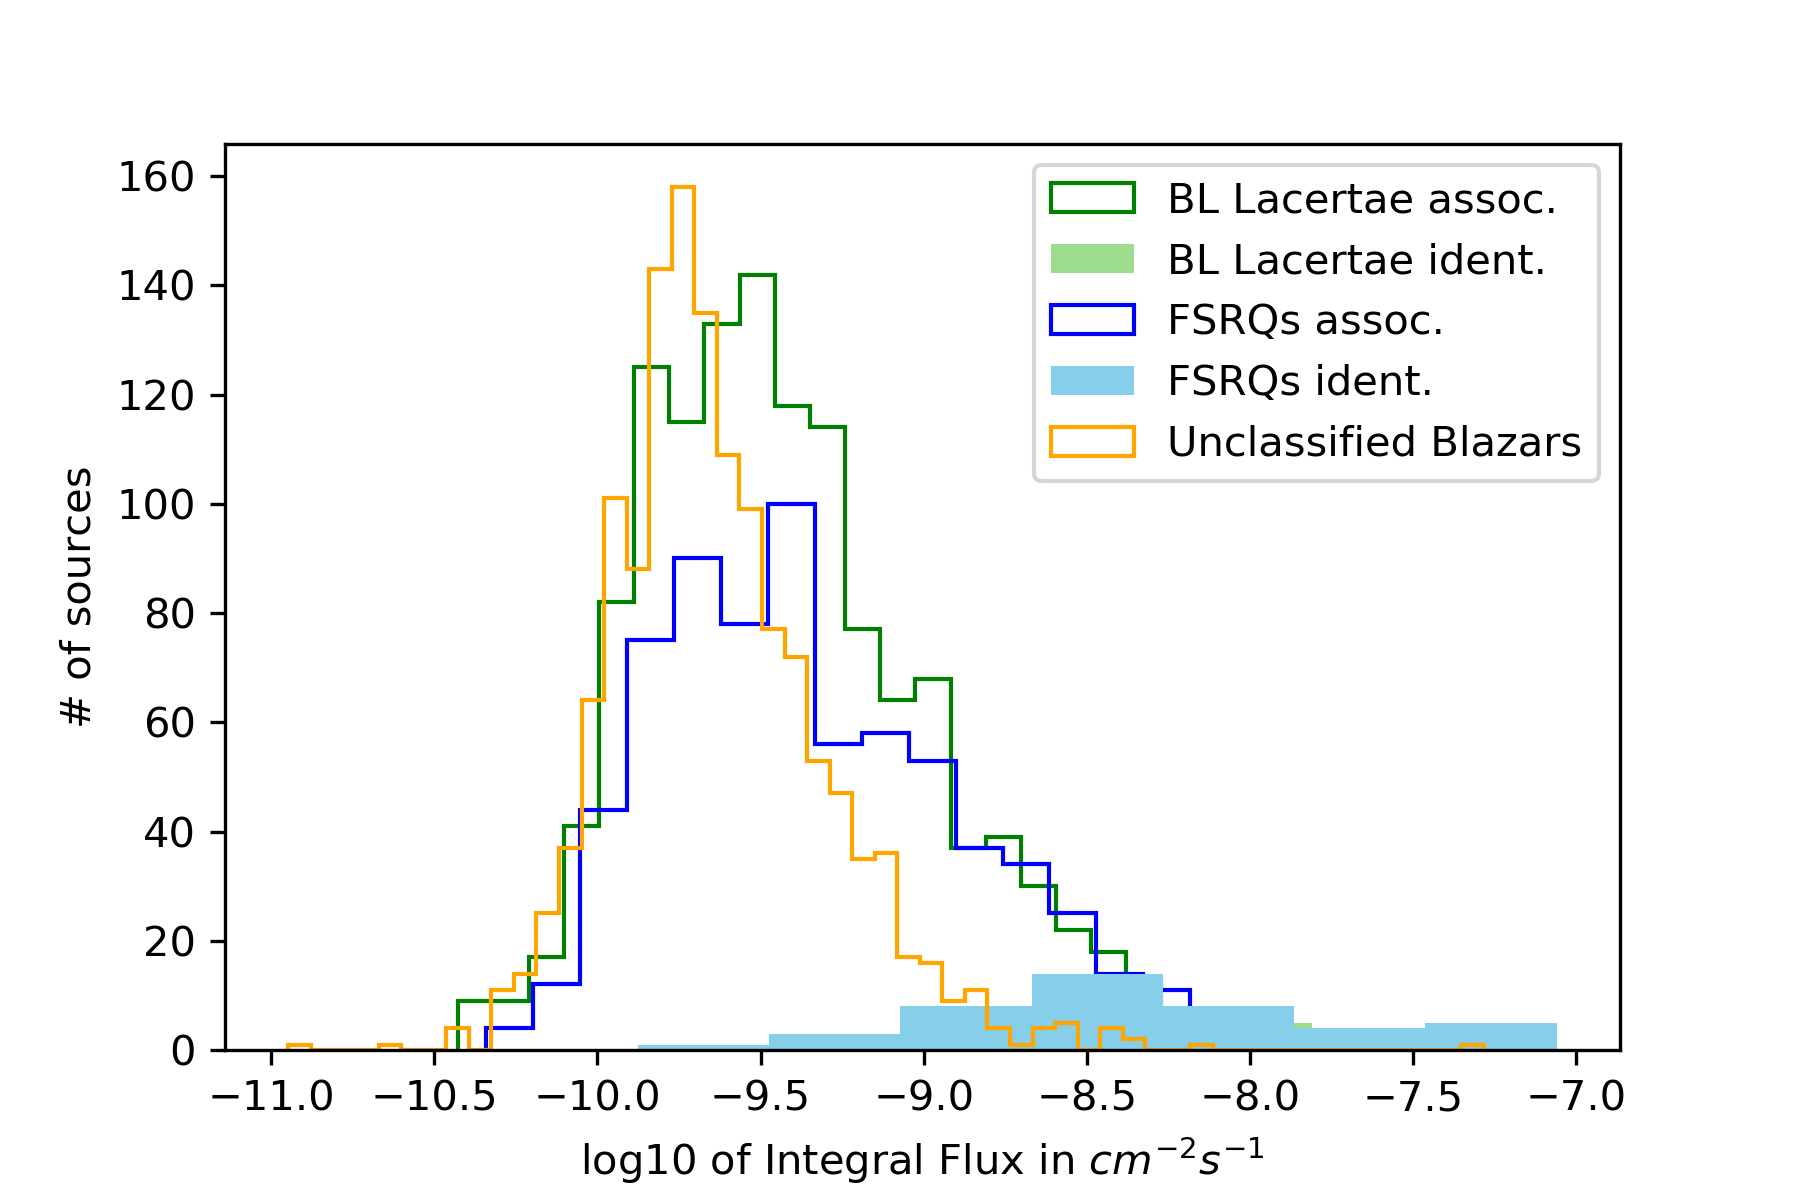
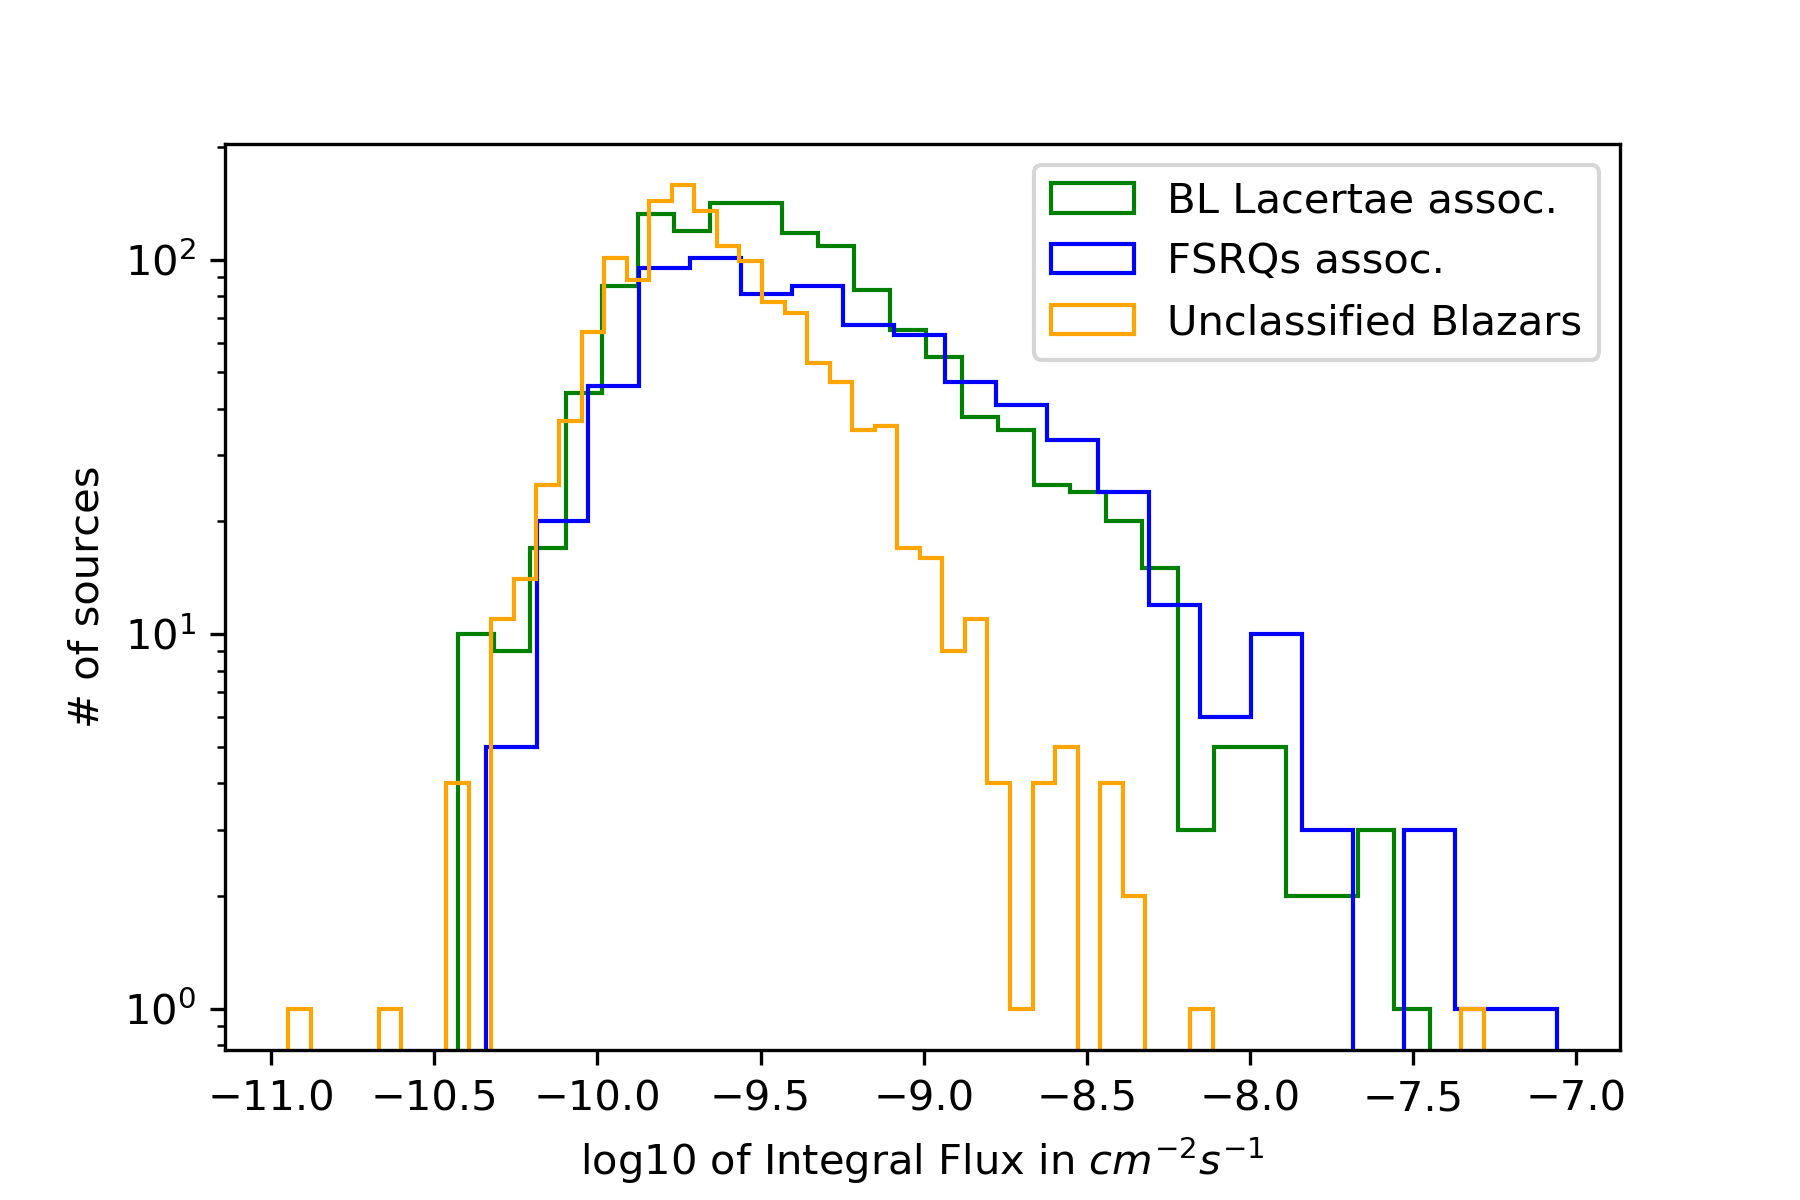
Clean up, start Source Count Distr.

diff --git a/RF_BCU_classif.py b/RF_BCU_classif.py
@@ -21,10 +21,10 @@ from sklearn.ensemble import RandomForestClassifier
 from sklearn.metrics import mean_squared_error
 import functions
 
-
-start = timeit.default_timer()                                  #start program timer
-
-mycatalog = catalog('gll_psc_v24.fit', 1)                       #get Silvia's catalog class
+# start program timer
+start = timeit.default_timer()
+# get Silvia's catalog class
+mycatalog = catalog('gll_psc_v24.fit', 1)
 mycatalog()
 
 f_lat_data = fits.open('gll_psc_v24.fit')
@@ -33,19 +33,19 @@ sources_cols = f_lat_data[1].columns
 
 merged = functions.merge_catalogs('gll_psc_v26.fit', 'table_4LAC.fits')
 merged = merged[merged.GLON.notnull()]
-
-label=np.empty(mycatalog.Ns)                                    #create empty label array
+# create empty label array
+label = np.empty(mycatalog.Ns)
 class1 = mycatalog.feature('CLASS1').astype(str)
-
-for i in range(label.size):                                     #label BLL as 0, FSRQ as 1
+# label BLL as 0, FSRQ as 1
+for i in range(label.size):
     if class1[i].strip() == 'bll':
         label[i]=0
     elif class1[i].strip() == 'BLL':
-        label[i]=10
+        label[i]=0
     elif class1[i].strip() == 'fsrq':
         label[i]=1
     elif class1[i].strip() == 'FSRQ':
-        label[i] = 11
+        label[i] = 1
     # label BCUs as 2
     elif class1[i].strip() == 'BCU':
         label[i] = 2
@@ -53,16 +53,16 @@ for i in range(label.size):                                     #label BLL as 0,
         label[i] = 2
     else:
         label[i]=np.nan
-        
-hist_data = {'BZ_Class': label,                                 #DataFrame for histograms
+# DataFrame for histograms
+hist_data = {'BZ_Class': label,
              'PL_Index': mycatalog.feature('PL_Index'),
              'Variability_Index': mycatalog.feature('Variability_Index'),
              'Flux1000': mycatalog.feature('Flux1000')}
                               
 hist_pd = pd.DataFrame(hist_data, columns = ['BZ_Class', 'PL_Index',
                                              'Variability_Index', 'Flux1000'])
-
-hist_pd = hist_pd.astype(np.float32)                            #convert to avoid errors
+# convert to avoid errors
+hist_pd = hist_pd.astype(np.float32)
 
 merged['BZ_Class'] = label.tolist()
 # merged['nu_syn'] = merged['nu_syn'].fillna(0)
@@ -72,11 +72,11 @@ merged['BZ_Class'] = label.tolist()
 
 hist_pd = merged
 
-bll = hist_pd[hist_pd["BZ_Class"]==0]
+bll = hist_pd[hist_pd["BZ_Class"] == 0]
 bll_upper = hist_pd[hist_pd["BZ_Class"] == 10]
-fsrq = hist_pd[hist_pd["BZ_Class"]==1]
+fsrq = hist_pd[hist_pd["BZ_Class"] == 1]
 fsrq_upper = hist_pd[hist_pd["BZ_Class"] == 11]
-bcu = hist_pd[hist_pd["BZ_Class"]==2]
+bcu = hist_pd[hist_pd["BZ_Class"] == 2]
 
 plt.hist(bll["PL_Index"], bins='auto', label='BL Lacertae assoc.',
          color='green', fill=False, histtype='step')
@@ -112,24 +112,48 @@ plt.legend()
 plt.savefig('Var_Index_hist.png', dpi=300)
 plt.show()
 
-
-plt.hist(np.log10(bll["Flux1000"]), bins='auto',              #Integral Flux histogram
+# Integral Flux histogram
+plt.hist(np.log10(bll["Flux1000"]), bins='auto',
          label='BL Lacertae assoc.', color='green',
          fill=False, histtype='step')
-plt.hist(np.log10(bll_upper["Flux1000"]), bins='auto',              #Integral Flux histogram
-         label='BL Lacertae ident.', color='#9DDB8D')
+# plt.hist(np.log10(bll_upper["Flux1000"]), bins='auto',
+#          label='BL Lacertae ident.', color='#9DDB8D')
 plt.hist(np.log10(fsrq["Flux1000"]), bins='auto',
          label='FSRQs assoc.', color='blue',
          fill=False, histtype='step')
-plt.hist(np.log10(fsrq_upper["Flux1000"]), bins='auto',
-         label='FSRQs ident.', color='skyblue')
+# plt.hist(np.log10(fsrq_upper["Flux1000"]), bins='auto',
+#          label='FSRQs ident.', color='skyblue')
 plt.hist(np.log10(bcu["Flux1000"]), bins='auto',
          label='Unclassified Blazars', color='orange',
          fill=False, histtype='step')
+plt.yscale('log')
 plt.xlabel('log10 of Integral Flux in $cm^{-2}s^{-1}$')
 plt.ylabel('# of sources')
 plt.legend()
 plt.savefig('Flux_1000_hist.png', dpi=300)
+plt.show()
+
+# Plot Source Count Distribution
+
+counts, bins = np.histogram(np.log10(bll["Flux1000"]), bins=15)
+# bin width
+h = bins[1] - bins[0]
+# complete solid angle in deg^2
+sol_angle_full = 41252.96
+bin_middle = np.zeros(len(counts)-1)
+bin_middle_long = np.zeros(len(counts))
+dN_dS_S2 = np.empty(len(counts)-1)
+for i in range(len(counts)-1):
+    bin_middle[i] = (bins[i]+bins[i+1])/2
+    dN_dS_S2[i] = (counts[i+1]-counts[i])/h*10**(bin_middle[i])/sol_angle_full
+    bin_middle_long[i] = bin_middle[i]
+
+bin_middle_long[len(counts)-1] = (bins[len(counts)-1]+bins[len(counts)])/2
+# TODO: understand source count distr. better
+dN_dS_dO_S2 = np.multiply(counts, 10**bin_middle_long)/sol_angle_full
+plt.plot(bin_middle_long, dN_dS_dO_S2, '.')
+plt.show()
+plt.plot(bin_middle, dN_dS_S2, '.')
 plt.show()
 
 '''

diff --git a/RF_feature_classif.py b/RF_feature_classif.py
@@ -171,11 +171,12 @@ sources_pd['nuFnu_syn'] = sources_pd['nuFnu_syn'].replace(0, np.nan)
 sources_pd['nuFnu_syn'] = sources_pd['nuFnu_syn'].fillna(median_nuFnu_syn)
 '''
 
-# drop features with missing entries
+# drop features with more than 10% missing entries
 for feature in sources_pd.columns:
     if sources_pd[feature].isna().sum() > 0.1 * len(sources_pd[feature]):
         sources_pd.drop(feature, axis=1, inplace=True)
 
+# drop irrelevatn features
 drop_cols = [col for col in sources_pd if col.startswith('ASSOC')]
 drop_cols = np.append(drop_cols,
                       ['Source_Name', 'SpectrumType', 'RA_Counterpart',
@@ -417,7 +418,7 @@ def forest_train(sources, nTrain, augmentation='smote'):
     acc[0] = accuracy_train
     acc[1] = accuracy_test
 
-    return rmse, acc, forest_clf
+    return rmse, acc, forest_clf, scaler
 
 
 # run 10 times to calculate errors
@@ -427,8 +428,8 @@ rmse_test = np.zeros(10)
 acc_test = np.zeros(10)
 
 for i in range(10):
-    rmse_i, acc_i, forest_clf = forest_train(sources_assoc, nTrain=i,
-                                             augmentation=None)
+    rmse_i, acc_i, forest_clf, scaler = forest_train(sources_assoc, nTrain=i,
+                                                     augmentation=None)
     rmse_train[i] = rmse_i[0]
     rmse_test[i] = rmse_i[1]
     acc_train[i] = acc_i[0]
@@ -448,8 +449,6 @@ sources_bcu = sources_pd[sources_pd.BZ_Class == 2]
 bcu_X = sources_bcu.drop(["BZ_Class"], axis=1)
 bcu_X = bcu_X.astype(np.float32)
 bcu_X = np.nan_to_num(bcu_X)
-
-scaler = StandardScaler()
 
 bcu_X_transf = scaler.transform(bcu_X)
 # predict class probabilities for the BCUs
@@ -477,10 +476,12 @@ bcu_index = bcu.reset_index()
 for i in range(len(bcu_index)):
     if bcu_index.iloc[i]['BZ_Class'] == 'fsrq':
         fsrq_list.append([bcu_index.iloc[i]['Source_Name'],
-                          bcu_index.iloc[i]['ASSOC1']])
+                          bcu_index.iloc[i]['ASSOC1'],
+                          bcu_probas[i, 1]])
     elif bcu_index.iloc[i]['BZ_Class'] == 'bll':
         bll_list.append([bcu_index.iloc[i]['Source_Name'],
-                         bcu_index.iloc[i]['ASSOC1']])
+                         bcu_index.iloc[i]['ASSOC1'],
+                         bcu_probas[i, 0]])
 
 
 # %% SCATTER PLOTS
